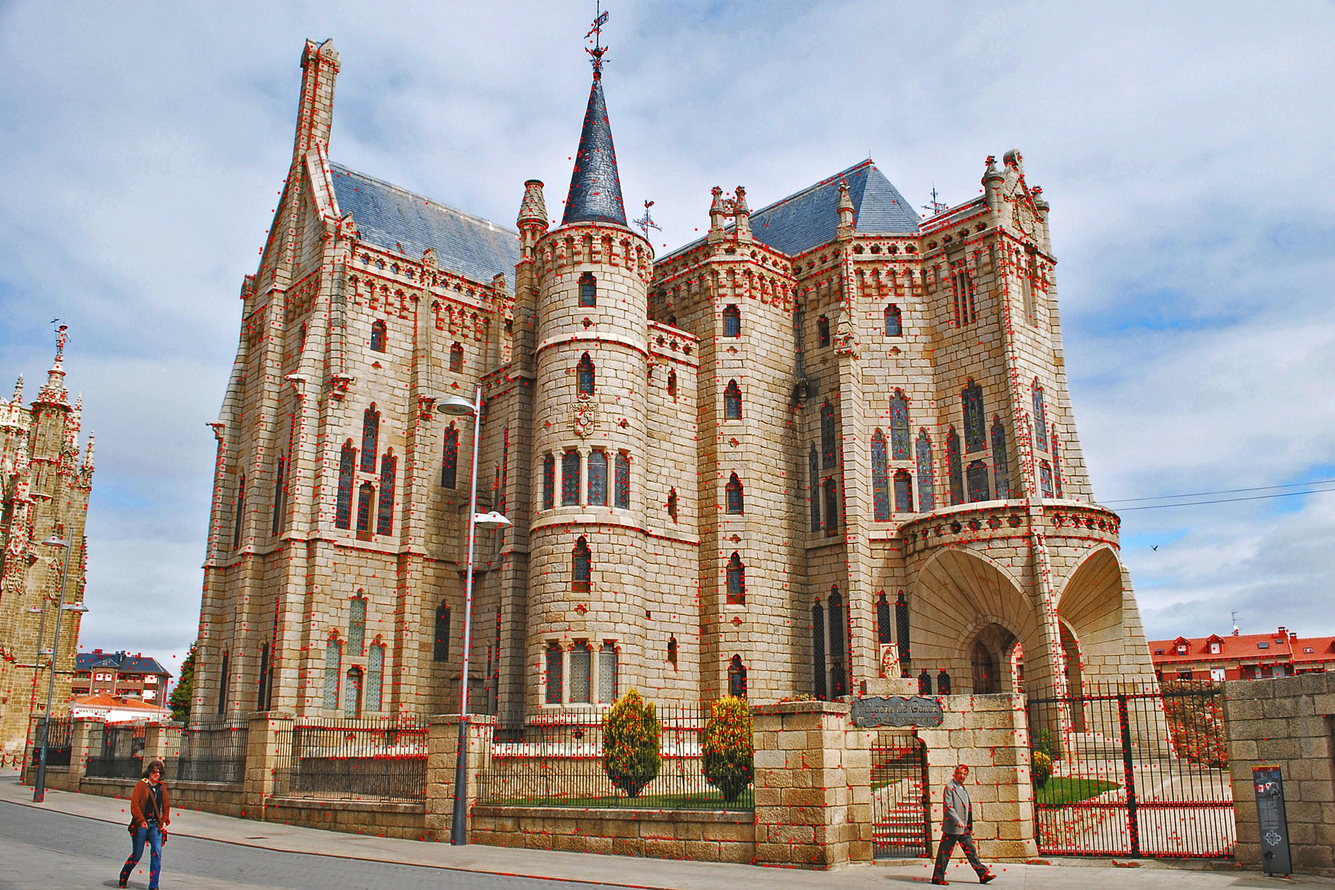
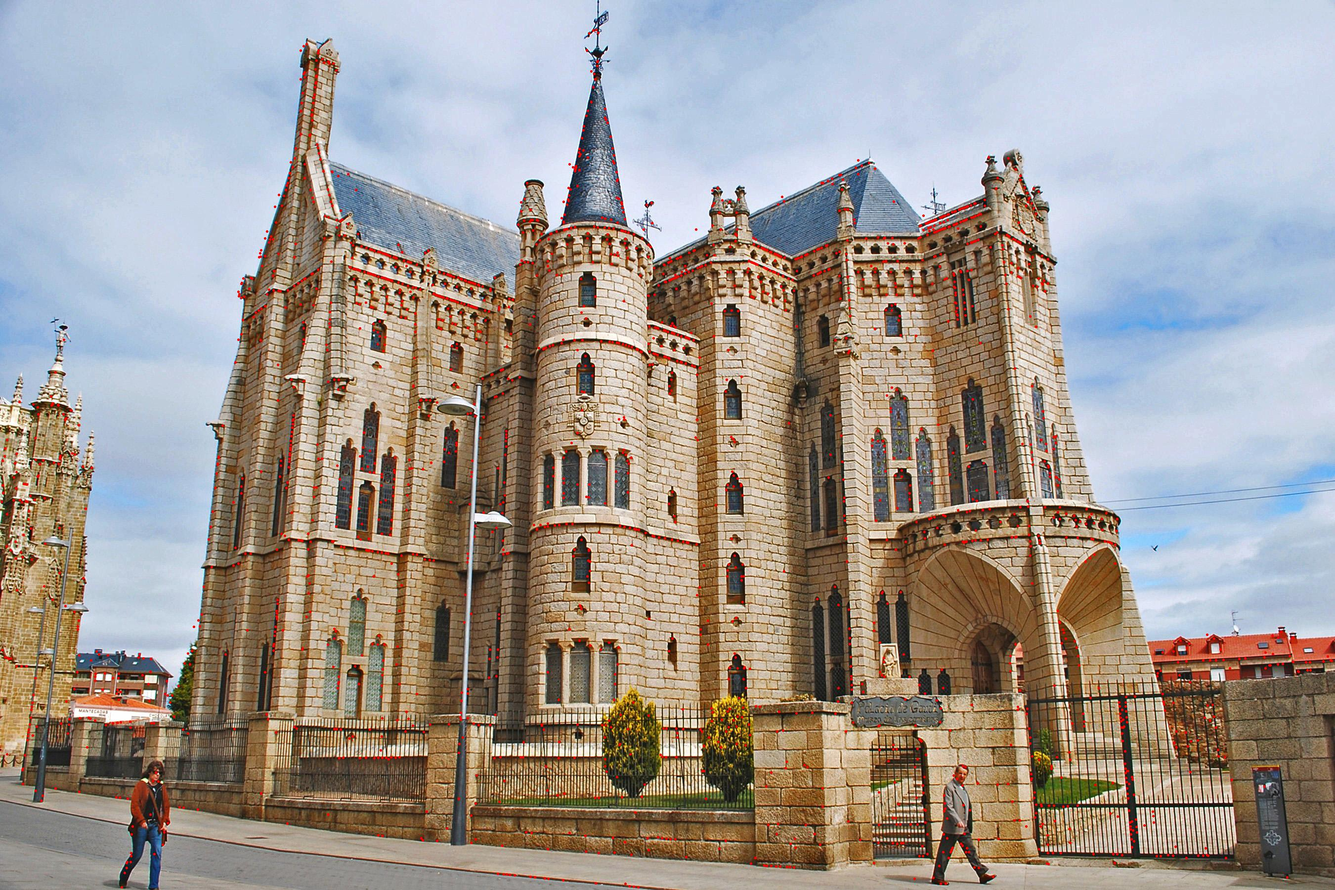
Unexpected behavior of gaussian filter partially explained

diff --git a/Lab4/keypoints_detection.py b/Lab4/keypoints_detection.py
@@ -163,17 +163,11 @@ def difference_of_gaussians(image, octaves_num=4, σ=1.6, scales_num=3):
 def difference_of_gaussians_one_octave(image, σ, scales_num):
     gaussian_images = []
     k = 2**(1/scales_num)
-    # ks = np.cumprod(np.ones(scales_num+2) * 2**(1/scales_num))
     gaussian_images = np.zeros((scales_num+3, image.shape[0], image.shape[1]))
-    # gaussian_images.append(ndim.gaussian_filter(image, σ, order=(0,0)))
-    # ndim.gaussian_filter(image, σ, order=(0,0), output=gaussian_images[0,:,:])
     for i in range(scales_num+3):
-        # gaussian_images.append(ndim.gaussian_filter(image, k**(i+1) *σ, order=(0,0)))
-        ndim.gaussian_filter(image, k**i *σ, order=(0,0), output=gaussian_images[i,:,:])
-    # gaussian_images = np.stack(gaussian_images, axis=0)
+        ndim.gaussian_filter(image, k**i *σ, order=(0,0), output=gaussian_images[i,:,:]) # the difference of this and next line is caused by rounding to int (but why the difference in keypoints is so big??)
+        # gaussian_images[i,:,:] = ndim.gaussian_filter(image, k**i *σ, order=(0,0))
     differences = gaussian_images[1:,:,:] - gaussian_images[:-1,:,:]
-    # for i in range(scales_num+2):
-    #     imageio.imsave('temp' + str(i) + '.jpg', differences[i])
     return differences
 
 def filter_low_contrast_keypoints(keypoints, diff, threshold=7.65, eigenvals_ratio=10.):
@@ -213,74 +207,74 @@ def compute_keypoints_original_coordinates(keypoints_for_octaves):
 
 def detect_on_examples_with_simple_harris_corner():
     print('Harris corner detector')
-    image = imageio.imread('data/Episcopal_Gaudi/EG_1_gray.jpg')
+    image = imageio.imread('data/Episcopal_Gaudi/EG_1_gray.jpg').astype(np.float)
     keypoints = harris_corner_with_simple_filtering(image, threshold=1e2)
     print('Found keypoints shape: ', keypoints.shape, '\n\n\n')
     draw_image_with_points('data/Episcopal_Gaudi/EG_1.jpg', np.fliplr(keypoints), (255,0,0), 'data/Episcopal_Gaudi/simple_harris1.jpg')
 
     print('Harris corner detector')
-    image = imageio.imread('data/Episcopal_Gaudi/EG_2_gray.jpg')
+    image = imageio.imread('data/Episcopal_Gaudi/EG_2_gray.jpg').astype(np.float)
     keypoints = harris_corner_with_simple_filtering(image, threshold=5e1)
     print('Found keypoints shape: ', keypoints.shape, '\n\n\n')
     draw_image_with_points('data/Episcopal_Gaudi/EG_2.jpg', np.fliplr(keypoints), (255,0,0), 'data/Episcopal_Gaudi/simple_harris2.jpg')
 
     print('Harris corner detector')
-    image = imageio.imread('data/Mount_Rushmore/MR_1_gray.jpg')
+    image = imageio.imread('data/Mount_Rushmore/MR_1_gray.jpg').astype(np.float)
     keypoints = harris_corner_with_simple_filtering(image)
     print('Found keypoints shape: ', keypoints.shape, '\n\n\n')
     draw_image_with_points('data/Mount_Rushmore/MR_1.jpg', np.fliplr(keypoints), (255,0,0), 'data/Mount_Rushmore/simple_harris1.jpg')
 
     print('Harris corner detector')
-    image = imageio.imread('data/Mount_Rushmore/MR_2_gray.jpg')
+    image = imageio.imread('data/Mount_Rushmore/MR_2_gray.jpg').astype(np.float)
     keypoints = harris_corner_with_simple_filtering(image)
     print('Found keypoints shape: ', keypoints.shape, '\n\n\n')
     draw_image_with_points('data/Mount_Rushmore/MR_2.jpg', np.fliplr(keypoints), (255,0,0), 'data/Mount_Rushmore/simple_harris2.jpg')
 
     print('Harris corner detector')
-    image = imageio.imread('data/Notre_Dame/ND_1_gray.jpg')
+    image = imageio.imread('data/Notre_Dame/ND_1_gray.jpg').astype(np.float)
     keypoints = harris_corner_with_simple_filtering(image)
     print('Found keypoints shape: ', keypoints.shape, '\n\n\n')
     draw_image_with_points('data/Notre_Dame/ND_1.jpg', np.fliplr(keypoints), (255,0,0), 'data/Notre_Dame/simple_harris1.jpg')
 
     print('Harris corner detector')
-    image = imageio.imread('data/Notre_Dame/ND_2_gray.jpg')
+    image = imageio.imread('data/Notre_Dame/ND_2_gray.jpg').astype(np.float)
     keypoints = harris_corner_with_simple_filtering(image)
     print('Found keypoints shape: ', keypoints.shape, '\n\n\n')
     draw_image_with_points('data/Notre_Dame/ND_2.jpg', np.fliplr(keypoints), (255,0,0), 'data/Notre_Dame/simple_harris2.jpg')
 
 def detect_on_examples_with_harris_corner_and_ANMS():
     print('Harris corner detector with ANMS')
-    image = imageio.imread('data/Episcopal_Gaudi/EG_1_gray.jpg')
+    image = imageio.imread('data/Episcopal_Gaudi/EG_1_gray.jpg').astype(np.float)
     keypoints = harris_corner_with_ANMS(image, 1500, threshold=5e1)
     print('Found keypoints shape: ', keypoints.shape, '\n\n\n')
     draw_image_with_points('data/Episcopal_Gaudi/EG_1.jpg', np.fliplr(keypoints), (255,0,0), 'data/Episcopal_Gaudi/ANMS_harris1.jpg')
 
     print('Harris corner detector with ANMS')
-    image = imageio.imread('data/Episcopal_Gaudi/EG_2_gray.jpg')
+    image = imageio.imread('data/Episcopal_Gaudi/EG_2_gray.jpg').astype(np.float)
     keypoints = harris_corner_with_ANMS(image, 1500, threshold=5e1)
     print('Found keypoints shape: ', keypoints.shape, '\n\n\n')
     draw_image_with_points('data/Episcopal_Gaudi/EG_2.jpg', np.fliplr(keypoints), (255,0,0), 'data/Episcopal_Gaudi/ANMS_harris2.jpg')
 
     print('Harris corner detector with ANMS')
-    image = imageio.imread('data/Mount_Rushmore/MR_1_gray.jpg')
+    image = imageio.imread('data/Mount_Rushmore/MR_1_gray.jpg').astype(np.float)
     keypoints = harris_corner_with_ANMS(image, 1500)
     print('Found keypoints shape: ', keypoints.shape, '\n\n\n')
     draw_image_with_points('data/Mount_Rushmore/MR_1.jpg', np.fliplr(keypoints), (255,0,0), 'data/Mount_Rushmore/ANMS_harris1.jpg')
 
     print('Harris corner detector with ANMS')
-    image = imageio.imread('data/Mount_Rushmore/MR_2_gray.jpg')
+    image = imageio.imread('data/Mount_Rushmore/MR_2_gray.jpg').astype(np.float)
     keypoints = harris_corner_with_ANMS(image, 1500)
     print('Found keypoints shape: ', keypoints.shape, '\n\n\n')
     draw_image_with_points('data/Mount_Rushmore/MR_2.jpg', np.fliplr(keypoints), (255,0,0), 'data/Mount_Rushmore/ANMS_harris2.jpg')
 
     print('Harris corner detector with ANMS')
-    image = imageio.imread('data/Notre_Dame/ND_1_gray.jpg')
+    image = imageio.imread('data/Notre_Dame/ND_1_gray.jpg').astype(np.float)
     keypoints = harris_corner_with_ANMS(image, 1500)
     print('Found keypoints shape: ', keypoints.shape, '\n\n\n')
     draw_image_with_points('data/Notre_Dame/ND_1.jpg', np.fliplr(keypoints), (255,0,0), 'data/Notre_Dame/ANMS_harris1.jpg')
 
     print('Harris corner detector with ANMS')
-    image = imageio.imread('data/Notre_Dame/ND_2_gray.jpg')
+    image = imageio.imread('data/Notre_Dame/ND_2_gray.jpg').astype(np.float)
     keypoints = harris_corner_with_ANMS(image, 1500)
     print('Found keypoints shape: ', keypoints.shape, '\n\n\n')
     draw_image_with_points('data/Notre_Dame/ND_2.jpg', np.fliplr(keypoints), (255,0,0), 'data/Notre_Dame/ANMS_harris2.jpg')
@@ -291,88 +285,93 @@ def detect_on_examples_with_harris_corner_and_ANMS():
 
 def detect_with_DoG():
     print('Difference of Gaussians')
-    image = imageio.imread('data/Episcopal_Gaudi/EG_1_gray.jpg')
+    image = imageio.imread('data/Episcopal_Gaudi/EG_1_gray.jpg').astype(np.float)
     keypoints = compute_keypoints_original_coordinates(difference_of_gaussians(image))
     print('Found keypoints shape: ', keypoints.shape, '\n\n\n')
     draw_image_with_points('data/Episcopal_Gaudi/EG_1.jpg', np.fliplr(keypoints), (255,0,0), 'data/Episcopal_Gaudi/DoG1.jpg')
 
     print('Difference of Gaussians')
-    image = imageio.imread('data/Episcopal_Gaudi/EG_2_gray.jpg')
+    image = imageio.imread('data/Episcopal_Gaudi/EG_2_gray.jpg').astype(np.float)
     keypoints = compute_keypoints_original_coordinates(difference_of_gaussians(image))
     print('Found keypoints shape: ', keypoints.shape, '\n\n\n')
     draw_image_with_points('data/Episcopal_Gaudi/EG_2.jpg', np.fliplr(keypoints), (255,0,0), 'data/Episcopal_Gaudi/DoG2.jpg')
 
     print('Difference of Gaussians')
-    image = imageio.imread('data/Mount_Rushmore/MR_1_gray.jpg')
+    image = imageio.imread('data/Mount_Rushmore/MR_1_gray.jpg').astype(np.float)
     keypoints = compute_keypoints_original_coordinates(difference_of_gaussians(image))
     print('Found keypoints shape: ', keypoints.shape, '\n\n\n')
     draw_image_with_points('data/Mount_Rushmore/MR_1.jpg', np.fliplr(keypoints), (255,0,0), 'data/Mount_Rushmore/DoG1.jpg')
 
     print('Difference of Gaussians')
-    image = imageio.imread('data/Mount_Rushmore/MR_2_gray.jpg')
+    image = imageio.imread('data/Mount_Rushmore/MR_2_gray.jpg').astype(np.float)
     keypoints = compute_keypoints_original_coordinates(difference_of_gaussians(image))
     print('Found keypoints shape: ', keypoints.shape, '\n\n\n')
     draw_image_with_points('data/Mount_Rushmore/MR_2.jpg', np.fliplr(keypoints), (255,0,0), 'data/Mount_Rushmore/DoG2.jpg')
 
     print('Difference of Gaussians')
-    image = imageio.imread('data/Notre_Dame/ND_1_gray.jpg')
+    image = imageio.imread('data/Notre_Dame/ND_1_gray.jpg').astype(np.float)
     keypoints = compute_keypoints_original_coordinates(difference_of_gaussians(image))
     print('Found keypoints shape: ', keypoints.shape, '\n\n\n')
     draw_image_with_points('data/Notre_Dame/ND_1.jpg', np.fliplr(keypoints), (255,0,0), 'data/Notre_Dame/DoG1.jpg')
 
     print('Difference of Gaussians')
-    image = imageio.imread('data/Notre_Dame/ND_2_gray.jpg')
+    image = imageio.imread('data/Notre_Dame/ND_2_gray.jpg').astype(np.float)
     keypoints = compute_keypoints_original_coordinates(difference_of_gaussians(image))
     print('Found keypoints shape: ', keypoints.shape, '\n\n\n')
     draw_image_with_points('data/Notre_Dame/ND_2.jpg', np.fliplr(keypoints), (255,0,0), 'data/Notre_Dame/DoG2.jpg')
 
-# detect_with_DoG()
+detect_with_DoG()
 
 def detect_with_harris_laplace():
     print('Harris-Laplace')
-    image = imageio.imread('data/Episcopal_Gaudi/EG_1_gray.jpg')
+    image = imageio.imread('data/Episcopal_Gaudi/EG_1_gray.jpg').astype(np.float)
     keypoints = harris_laplace(image, 20., 1e2, 1.5, 13, 1.2)
     # print('Found keypoints shape: ', keypoints.shape, '\n\n\n')
     draw_points_with_scale_markers('data/Episcopal_Gaudi/EG_1.jpg', keypoints, (255,0,0), 'data/Episcopal_Gaudi/Harris-Laplace1.jpg', 1.5, 1.2)
 
 
     print('Harris-Laplace')
-    image = imageio.imread('data/Episcopal_Gaudi/EG_2_gray.jpg')
+    image = imageio.imread('data/Episcopal_Gaudi/EG_2_gray.jpg').astype(np.float)
     keypoints = harris_laplace(image, 15., 1e2, 1.5, 13, 1.2)
     # print('Found keypoints shape: ', keypoints.shape, '\n\n\n')
     draw_points_with_scale_markers('data/Episcopal_Gaudi/EG_2.jpg', keypoints, (255,0,0), 'data/Episcopal_Gaudi/Harris-Laplace2.jpg', 1.5, 1.2)
 
 
     print('Harris-Laplace')
-    image = imageio.imread('data/Mount_Rushmore/MR_1_gray.jpg')
+    image = imageio.imread('data/Mount_Rushmore/MR_1_gray.jpg').astype(np.float)
     keypoints = harris_laplace(image, 13., 1e2, 1.5, 13, 1.2)
     # print('Found keypoints shape: ', keypoints.shape, '\n\n\n')
     draw_points_with_scale_markers('data/Mount_Rushmore/MR_1.jpg', keypoints, (255,0,0), 'data/Mount_Rushmore/Harris-Laplace1.jpg', 1.5, 1.2)
 
 
     print('Harris-Laplace')
-    image = imageio.imread('data/Mount_Rushmore/MR_2_gray.jpg')
+    image = imageio.imread('data/Mount_Rushmore/MR_2_gray.jpg').astype(np.float)
     keypoints = harris_laplace(image, 15., 1e2, 1.5, 13, 1.2)
     # print('Found keypoints shape: ', keypoints.shape, '\n\n\n')
     draw_points_with_scale_markers('data/Mount_Rushmore/MR_2.jpg', keypoints, (255,0,0), 'data/Mount_Rushmore/Harris-Laplace2.jpg', 1.5, 1.2)
 
 
     print('Harris-Laplace')
-    image = imageio.imread('data/Notre_Dame/ND_1_gray.jpg')
+    image = imageio.imread('data/Notre_Dame/ND_1_gray.jpg').astype(np.float)
     keypoints = harris_laplace(image, 20., 1e2, 1.5, 13, 1.2)
     # print('Found keypoints shape: ', keypoints.shape, '\n\n\n')
     draw_points_with_scale_markers('data/Notre_Dame/ND_1.jpg', keypoints, (255,0,0), 'data/Notre_Dame/Harris-Laplace1.jpg', 1.5, 1.2)
 
 
     print('Harris-Laplace')
-    image = imageio.imread('data/Notre_Dame/ND_2_gray.jpg')
+    image = imageio.imread('data/Notre_Dame/ND_2_gray.jpg').astype(np.float)
     keypoints = harris_laplace(image, 20., 1e2, 1.5, 13, 1.2)
     # print('Found keypoints shape: ', keypoints.shape, '\n\n\n')
     draw_points_with_scale_markers('data/Notre_Dame/ND_2.jpg', keypoints, (255,0,0), 'data/Notre_Dame/Harris-Laplace2.jpg', 1.5, 1.2)
 
-detect_with_harris_laplace()
+# detect_with_harris_laplace()
 
 # image = np.array(Image.open('/home/dominik/Dokumenty/Studia/CVandPhotogrammetry/piesek/IMG_0161.JPG', 'r').convert('L'))
 # keypoints = harris_corner_with_ANMS(image, 1500, threshold=5e1)
 # print(keypoints.shape)
 # draw_image_with_points('/home/dominik/Dokumenty/Studia/CVandPhotogrammetry/piesek/IMG_0161.JPG', np.fliplr(keypoints), (255,0,0), '/home/dominik/Dokumenty/Studia/CVandPhotogrammetry/piesek/features/IMG_0161.JPG')
+
+# image = np.array(Image.open('data/kronan1_gray.jpg', 'r').convert('L'))
+# keypoints = harris_corner_with_ANMS(image, 1500, threshold=5e1)
+# print(keypoints.shape)
+# draw_image_with_points('data/kronan1.JPG', np.fliplr(keypoints), (0,250,0), 'data/ANMS_kronan1_gray.jpg')
